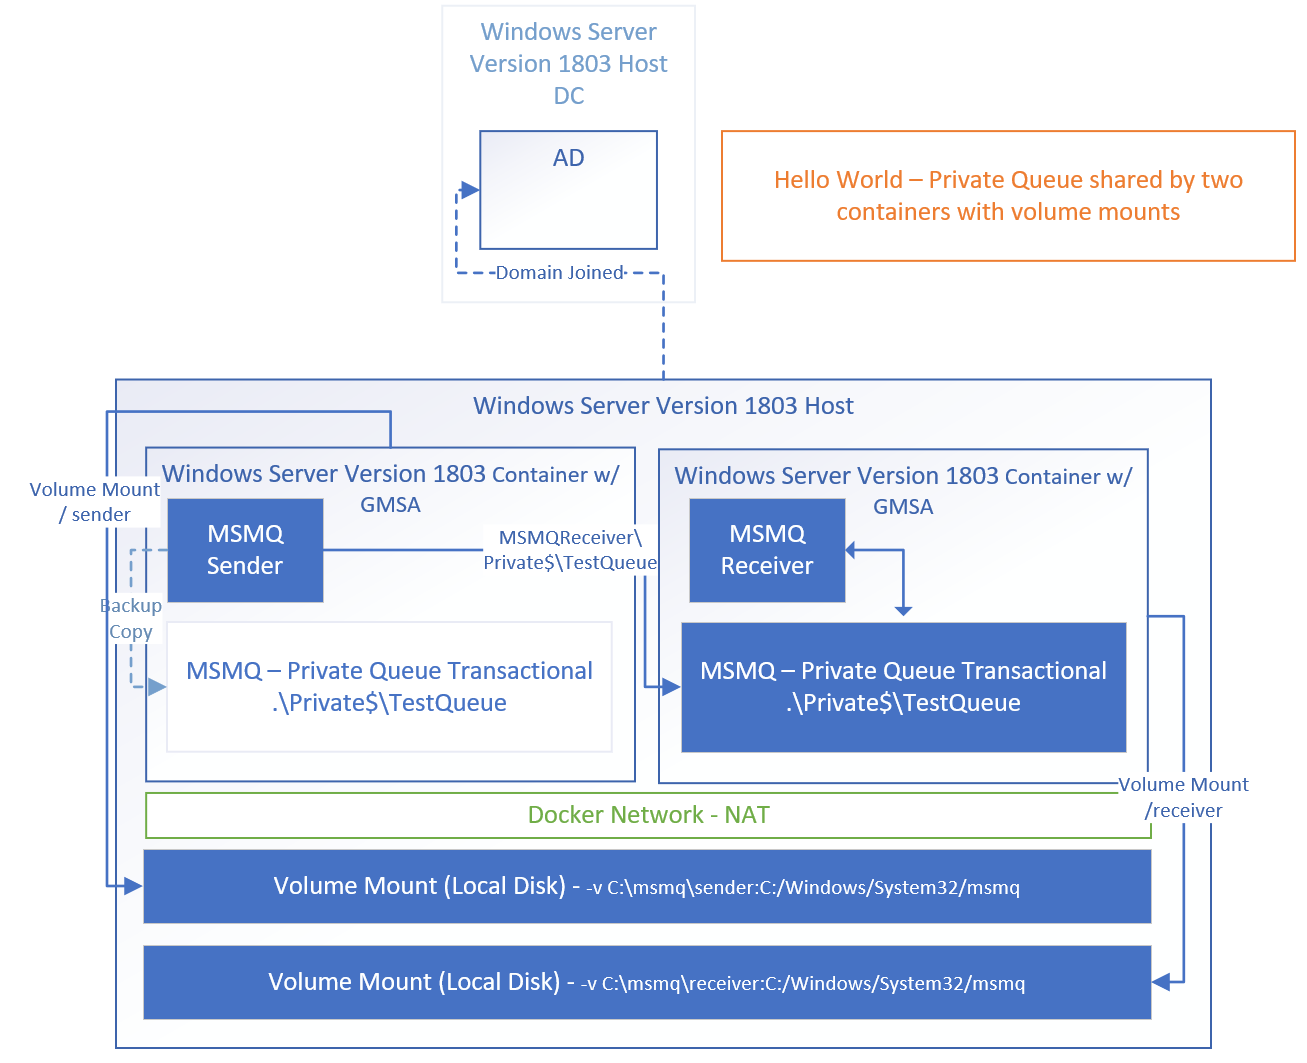
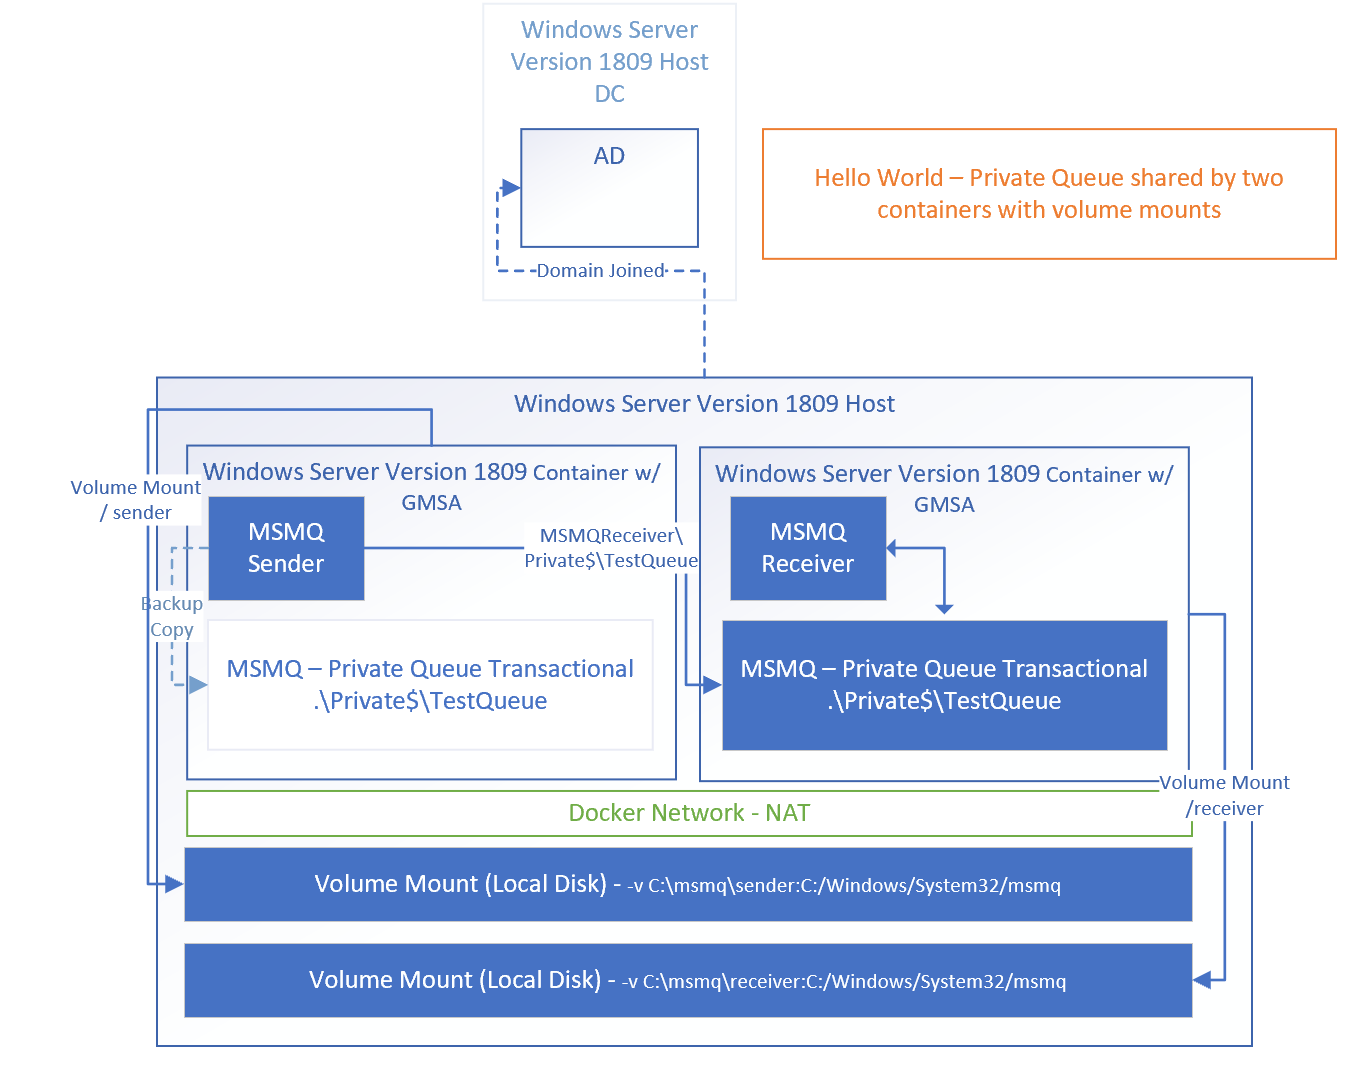
wip msmq 1809

Changed region(s): [[0.0306, 0.3415, 0.9487, 0.9934], [0.5509, 0.0931, 1.0, 0.2484], [0.3366, 0.0, 0.5203, 0.2794]]

diff --git a/Scenarios-Read-Me/README-Persistent-Volume.md b/Scenarios-Read-Me/README-Persistent-Volume.md
@@ -15,10 +15,10 @@ These will describe some of the concepts that we're using in this scenario.
 
 #### Prep script
 
-A setup script in  **.\scripts\persistent-volume-mount-prep.ps1** will help with this process, and we'll want to run it on the host.  We will run the containers **sequentially** as each of the containers will have their own queue manager, which will assume ownership of the file mount.  This **prevents two containers** from using the **same volume mount** and running at the **same time**.
+A [setup script](../scripts/persistent-volume-mount-prep-one-host.ps1) will help with this process, and we'll want to run it on the host.  We will run the containers **sequentially** as each of the containers will have their own queue manager, which will assume ownership of the file mount.  This **prevents two containers** from using the **same volume mount** and allows running them at the **same time**.
 
 ```powershell
-.\scripts\persistent-volume-mount-prep.ps1
+.\scripts\persistent-volume-mount-prep-one-host.ps1
 ```
 
 The script will set up a **local folder** for testing the **volume mount** on the host, for instance C:\msmq.
@@ -43,12 +43,12 @@ We'll want to run the containers next and point them to the local volume mount.
 
 We can test the **sender** with the **default driver (NAT)** in an interative mode:
 ```powershell
-docker run --name=persistent_volume_sender_test --security-opt "credentialspec=file://MSMQSend.json" -h MSMQSend -it -v c:\msmq\sender:c:/Windows/System32/msmq -e QUEUE_NAME='MSMQRec\private$\testQueue' -e TRACE_LEVEL=1 <my-repo>/windows-ad:msmq-persistent-volume-sender-test
+docker run --name=persistent_volume_sender_test --security-opt "credentialspec=file://MSMQSend.json" -h MSMQSend -it -v c:\msmq\sender:c:/Windows/System32/msmq -e QUEUE_NAME='MSMQRec\private$\testQueue' -e TRACE_LEVEL=1 <my-repo>/windows-ad:msmq-persistent-volume-sender-test-1809
 ```
 
 We can test the **receiver** with the **default driver (NAT)** in an interative mode:
 ```powershell
-docker run --name=persistent_volume_receiver_test --security-opt "credentialspec=file://MSMQRec.json" -h MSMQRec -it -v c:\msmq\receiver:c:/Windows/System32/msmq <my-repo>/windows-ad:msmq-persistent-volume-receiver-test
+docker run --name=persistent_volume_receiver_test --security-opt "credentialspec=file://MSMQRec.json" -h MSMQRec -it -v c:\msmq\receiver:c:/Windows/System32/msmq <my-repo>/windows-ad:msmq-persistent-volume-receiver-test-1809
 ```
 
 If we're using **transparent network driver**, it might look something like this:
@@ -56,13 +56,13 @@ If we're using **transparent network driver**, it might look something like this
 Run the sender.
 
 ```powershell
-docker run --security-opt "credentialspec=file://MSMQsend.json" -it -v C:\msmq\sender:c:/Windows/System32/msmq -h MSMQsend --network=tlan2 --dns=10.123.80.123 --name persistent_store -e QUEUE_NAME='MSMQRec\private$\testQueue' <my-repo>/windows-ad:msmq-sender-test powershell
+docker run --security-opt "credentialspec=file://MSMQsend.json" -it -v C:\msmq\sender:c:/Windows/System32/msmq -h MSMQsend --network=tlan2 --dns=10.123.80.123 --name persistent_store -e QUEUE_NAME='MSMQRec\private$\testQueue' <my-repo>/windows-ad:msmq-sender-test-1809 powershell
 ```
 
 Run the receiver.
 
 ```powershell
-docker run --security-opt "credentialspec=file://MSMQRec.json" -it -v C:\msmq\receiver:c:/Windows/System32/msmq -h MSMQRec --network=tlan2 --dns=10.123.80.123 --name persistent_store_receiver <my-repo>/windows-ad:msmq-receiver-test powershell
+docker run --security-opt "credentialspec=file://MSMQRec.json" -it -v C:\msmq\receiver:c:/Windows/System32/msmq -h MSMQRec --network=tlan2 --dns=10.123.80.123 --name persistent_store_receiver <my-repo>/windows-ad:msmq-receiver-test-1809 powershell
 ```
 
 If we're using **NAT network driver** with **port mappings**, it might look something like this:
@@ -70,13 +70,13 @@ If we're using **NAT network driver** with **port mappings**, it might look some
 Run the sender.
 
 ```powershell
-docker run --security-opt "credentialspec=file://MSMQsend.json" -it -v C:\msmq\sender:c:/Windows/System32/msmq -h MSMQsend -p 80:80 -p 4020:4020 -p 4021:4021 -p 135:135/udp -p 389:389 -p 1801:1801/udp -p 2101:2101 -p 2103:2103/udp -p 2105:2105/udp -p 3527:3527 -p 3527:3527/udp -p 2879:2879 --name persistent_store -e QUEUE_NAME='MSMQRec\private$\testQueue' <my-repo>/windows-ad:msmq-sender-test powershell
+docker run --security-opt "credentialspec=file://MSMQsend.json" -it -v C:\msmq\sender:c:/Windows/System32/msmq -h MSMQsend -p 80:80 -p 4020:4020 -p 4021:4021 -p 135:135/udp -p 389:389 -p 1801:1801/udp -p 2101:2101 -p 2103:2103/udp -p 2105:2105/udp -p 3527:3527 -p 3527:3527/udp -p 2879:2879 --name persistent_store -e QUEUE_NAME='MSMQRec\private$\testQueue' <my-repo>/windows-ad:msmq-sender-test-1809 powershell
 ```
 
 Run the receiver.
 
 ```powershell
-docker run --security-opt "credentialspec=file://MSMQRec.json" -it -v C:\msmq\receiver:c:/Windows/System32/msmq -h MSMQRec -p 80:80 -p 4020:4020 -p 4021:4021 -p 135:135/udp -p 389:389 -p 1801:1801/udp -p 2101:2101 -p 2103:2103/udp -p 2105:2105/udp -p 3527:3527 -p 3527:3527/udp -p 2879:2879 --ip 172.31.230.92 --name persistent_store_receiver <my-repo>/windows-ad:msmq-receiver-test powershell
+docker run --security-opt "credentialspec=file://MSMQRec.json" -it -v C:\msmq\receiver:c:/Windows/System32/msmq -h MSMQRec -p 80:80 -p 4020:4020 -p 4021:4021 -p 135:135/udp -p 389:389 -p 1801:1801/udp -p 2101:2101 -p 2103:2103/udp -p 2105:2105/udp -p 3527:3527 -p 3527:3527/udp -p 2879:2879 --ip 172.31.230.92 --name persistent_store_receiver <my-repo>/windows-ad:msmq-receiver-test-1809 powershell
 ```
 
 

diff --git a/Scenarios-Read-Me/README-Persistent-Volume-Azure-Files.md b/Scenarios-Read-Me/README-Persistent-Volume-Azure-Files.md
@@ -23,7 +23,7 @@ These will describe some of the concepts that we're using in this scenario.
 #### Prepare environment
 
 ##### Set up Azure File Share
-We can run a set up script in **.\scripts\persistent-volume-mount-prep-azure-file-create.ps1**, be sure to adapt it to the **appropriate settings**!  We'll work through the main steps of the script.
+We can run a [Setup Script](../scripts/persistent-volume-mount-prep-azure-file-create.ps1), and be sure to adapt it to the **appropriate settings**!  We'll work through the main steps of the script.
 
 Run this script on the host with elevated permissions in PowerShell.
 
@@ -60,8 +60,7 @@ az ad sp list --spn "http://$spn"
 ```
 ##### Set up SMB Link on the *Host*
 
-Run the SMB set up script:
-**.\scripts\persistent-volume-mount-prep-azure-file-smb.ps1**, and make sure to point to the **correct locations** for the Azure File Share.
+Run the SMB [setup script](../scripts/persistent-volume-mount-prep-azure-file-smb.ps1), and make sure to point to the **correct locations** for the Azure File Share.
 ```
 .\scripts\persistent-volume-mount-prep-azure-file-smb.ps1
 ```
@@ -72,7 +71,7 @@ It will grant **permissions** for **everyone** on that folder (this is just a te
 
 #### Prep script
 
-A setup script in  **.\scripts\persistent-volume-mount-prep-azure-file-smb-one-host.ps1** will help with this process, and we'll want to run it on the host.  
+A [setup script](../scripts/persistent-volume-mount-prep-azure-file-smb-one-host.ps1) will help with this process, and we'll want to run it on the host.  
 
 This will assume that we've created the gMSA accounts in the **same host**, e.g. we will have a cred spec for **MSMQRec** and **MSMQSend**.
 ```powershell

diff --git a/Scenarios-Read-Me/README-Monolith.md b/Scenarios-Read-Me/README-Monolith.md
@@ -11,7 +11,13 @@ The queue by default will be located at .\private$\testQueue.
 docker run -it <my-repo>/windows-ad:msmq-monolith-test
 ```
 
-We should be able to see the private queue accessible from both the sender and receiver applications.  Since we're in interactive mode, we can also attach to the running container and run the applications separately.
+We should be able to see the private queue accessible from both the sender and receiver applications.  
+
+Since we're in interactive mode, we can also attach to the running container and run the applications separately.  We can also examine the logs if we redirect output to the file system.
+
+![Monolith with private queue.](../media/monolith/logging.png 'Monolith Logs')
+
+### Running the applications
 
 ```powershell
 docker run -d <my-repo>/windows-ad:msmq-monolith-test
@@ -30,4 +36,3 @@ C:\Receiver\MSMQReceiverTest.exe
 ```
 
 ![Test Success.](../media/monolith/successful-test.png 'Monolith test')
-
